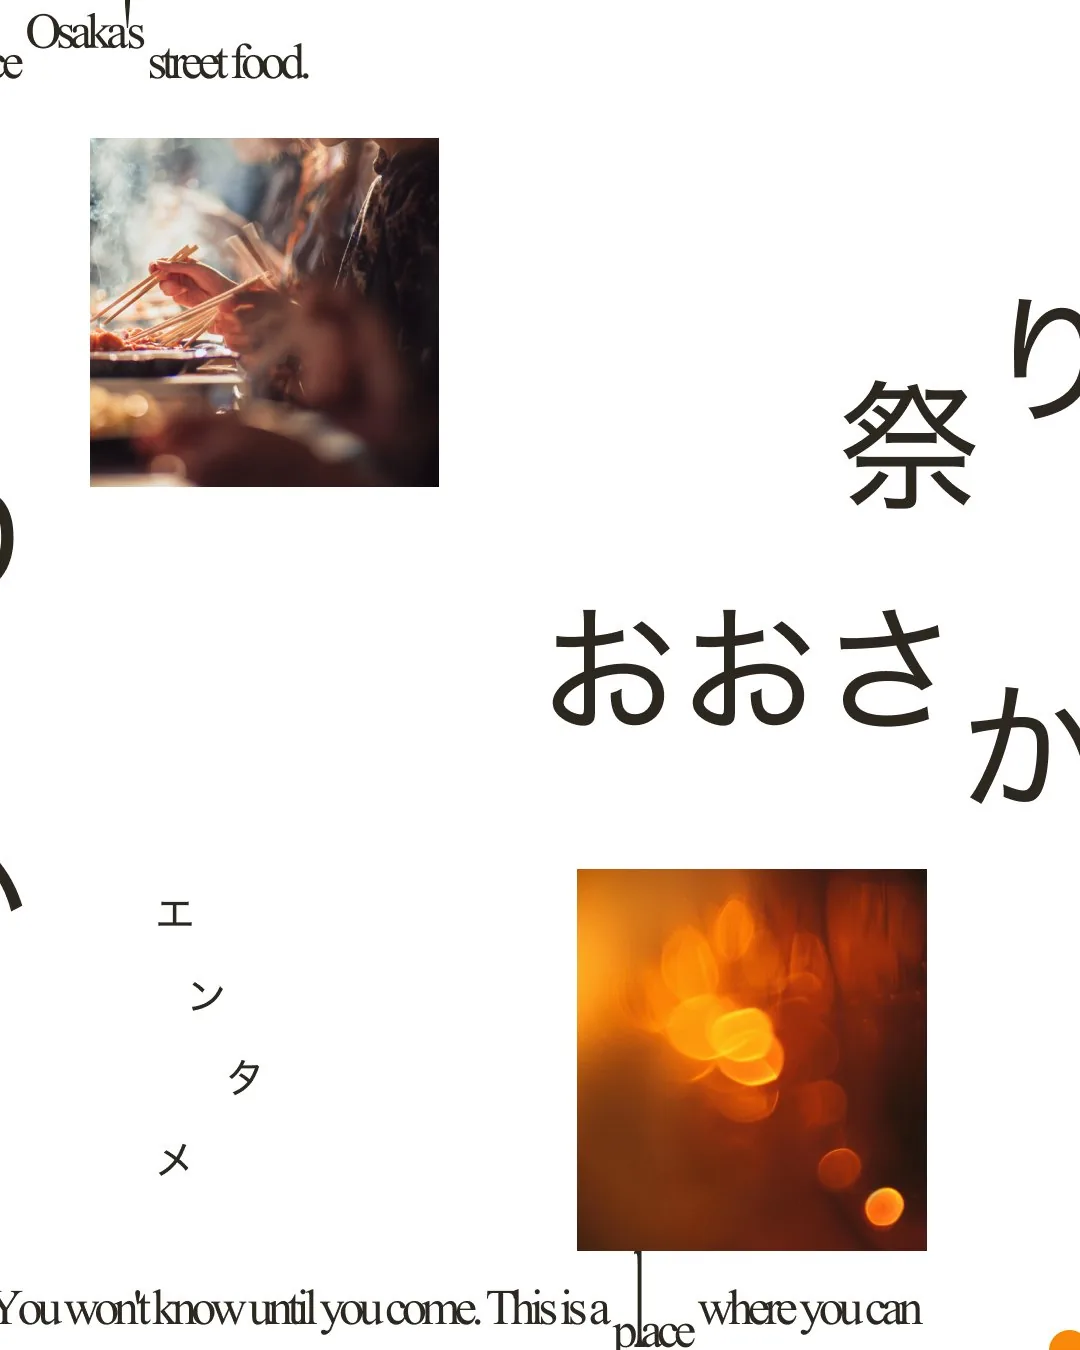
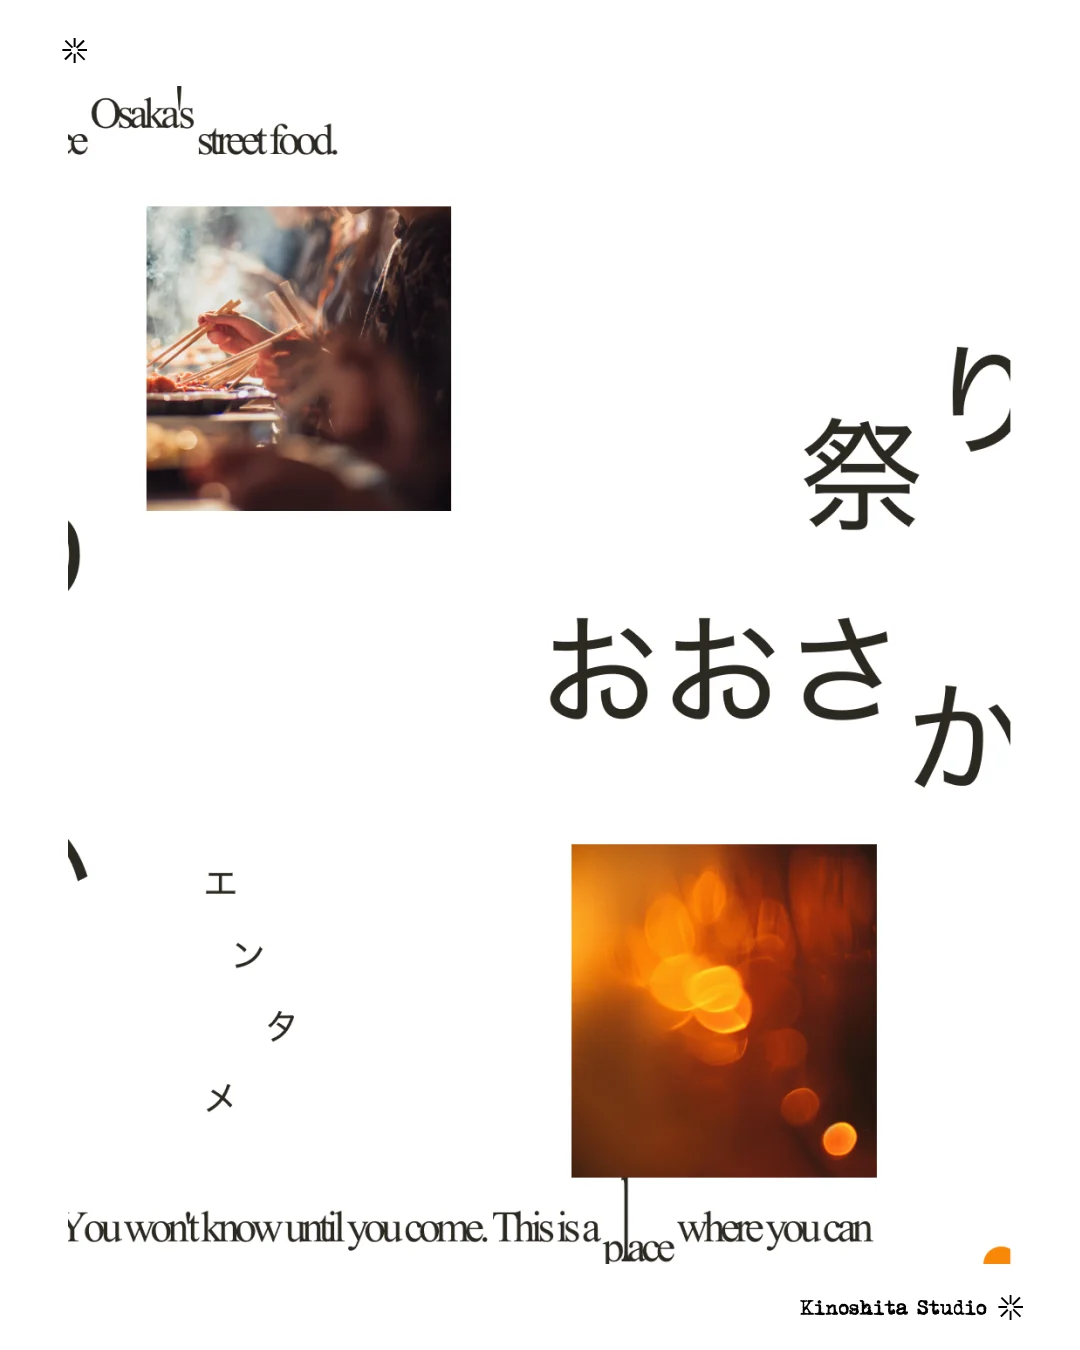
yataimura: ポスター3枚を署名入りの版に差し替え・版面を切らずに全部見せる

diff --git a/case-yataimura-poster.html b/case-yataimura-poster.html
@@ -115,8 +115,12 @@
     }
     .hero-poster-frame {
       position: relative;
+    }
+    /* 版面は 4:5。切らずに全部見せる（左上の※と右下の署名まで入れる） */
+    .hero-poster-sheet {
+      position: relative;
       overflow: hidden;
-      aspect-ratio: 2 / 3;
+      aspect-ratio: 4 / 5;
       border: 1px solid rgba(255,255,255,0.08);
     }
     .hero-poster-frame img {
@@ -127,8 +131,8 @@
     }
     .hero-poster-frame:hover img { transform: scale(1.02); }
     .hero-poster-label {
-      position: absolute;
-      bottom: 1.5rem; left: 1.5rem;
+      display: block;
+      margin-top: 0.8rem;
       font-family: 'Space Mono', monospace;
       font-size: 0.45rem; letter-spacing: 0.25em;
       color: rgba(255,255,255,0.4); text-transform: uppercase;
@@ -530,15 +534,15 @@
 <section class="hero">
   <div class="hero-poster-row">
     <div class="hero-poster-frame">
-      <img src="assets/_orphans/Frame_43.webp" alt="木下スタジオ 制作 道頓堀 屋台村 祭 ポスター：屋台村ポスター 01 — 体験の本質（抽象）" loading="lazy">
+      <div class="hero-poster-sheet"><img src="assets/_orphans/Frame_43.webp" alt="木下スタジオ 制作 道頓堀 屋台村 祭 ポスター：屋台村ポスター 01 — 体験の本質（抽象）" loading="lazy"></div>
       <span class="hero-poster-label">01 — 感覚 / Abstract</span>
     </div>
     <div class="hero-poster-frame">
-      <img src="assets/img/Frame_44.webp" alt="木下スタジオ 制作 道頓堀 屋台村 祭 ポスター：屋台村ポスター 02 — 体験（リアル）" loading="lazy">
+      <div class="hero-poster-sheet"><img src="assets/img/Frame_44.webp" alt="木下スタジオ 制作 道頓堀 屋台村 祭 ポスター：屋台村ポスター 02 — 体験（リアル）" loading="lazy"></div>
       <span class="hero-poster-label">02 — 体験 / Real</span>
     </div>
     <div class="hero-poster-frame">
-      <img src="assets/_orphans/Frame_45.webp" alt="木下スタジオ 制作 道頓堀 屋台村 祭 ポスター：屋台村ポスター 03 — 体験したつもり（疑似）" loading="lazy">
+      <div class="hero-poster-sheet"><img src="assets/_orphans/Frame_45.webp" alt="木下スタジオ 制作 道頓堀 屋台村 祭 ポスター：屋台村ポスター 03 — 体験したつもり（疑似）" loading="lazy"></div>
       <span class="hero-poster-label">03 — 疑似 / Pseudo</span>
     </div>
   </div>
